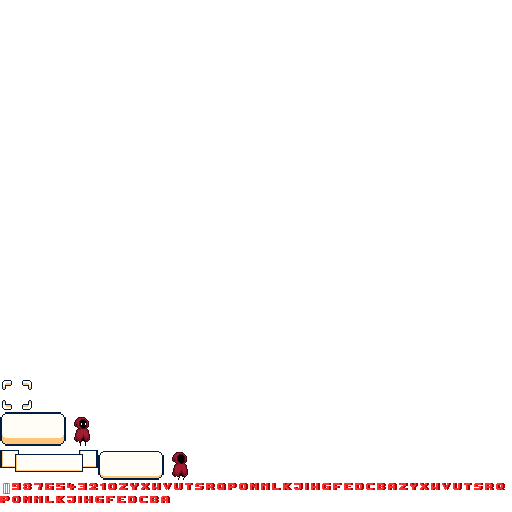
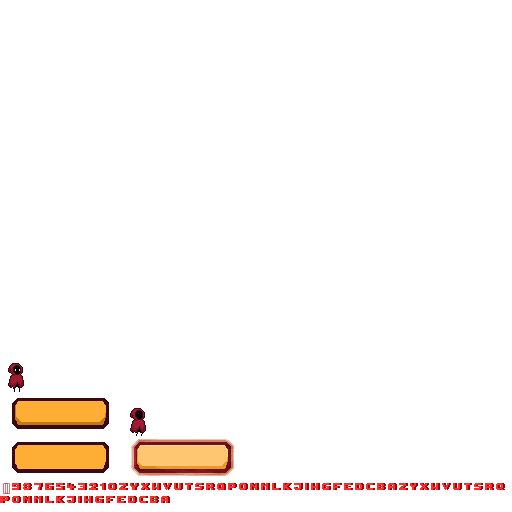
UI UPDATES

Changed region(s): [[0.0, 0.6875, 0.4688, 0.9375]]

diff --git a/core/src/main/java/com/turmoillift2/states/Play.java b/core/src/main/java/com/turmoillift2/states/Play.java
@@ -1,11 +1,19 @@
 package com.turmoillift2.states;
 
 
+import com.badlogic.gdx.Gdx;
 import com.badlogic.gdx.graphics.OrthographicCamera;
 import com.badlogic.gdx.math.Vector2;
 import com.badlogic.gdx.physics.box2d.*;
+import com.badlogic.gdx.scenes.scene2d.Stage;
+import com.badlogic.gdx.scenes.scene2d.ui.Label;
+import com.badlogic.gdx.scenes.scene2d.ui.Skin;
+import com.badlogic.gdx.scenes.scene2d.ui.Table;
+import com.badlogic.gdx.utils.Align;
 import com.badlogic.gdx.utils.Array;
 import com.badlogic.gdx.utils.ScreenUtils;
+import com.github.tommyettinger.textra.KnownFonts;
+import com.github.tommyettinger.textra.TypingLabel;
 import com.turmoillift2.entities.Player;
 import com.turmoillift2.entities.Projectile;
 import com.turmoillift2.entities.enemies.Enemy;
@@ -28,6 +36,11 @@ public class Play extends GameState {
     private final EnemySpawner enemySpawner;
     private final Score score;
 
+    // STAGE FOR HUD SETUP - REFACTOR LATER
+    private final Stage stage;
+    private final Skin skin;
+    private final TypingLabel scoreLabel;
+
     private final int[] firstLayers = {0, 1};
     private final int[] lastLayers = {2};
 
@@ -47,6 +60,22 @@ public class Play extends GameState {
 
         b2DCam = new OrthographicCamera();
         b2DCam.setToOrtho(false, (float) TurmoilLiftoff2.WORLD_WIDTH / PPM, (float) TurmoilLiftoff2.WORLD_HEIGHT / PPM);
+
+
+        //TODO Refactor later, just testing right now
+        skin = new Skin(Gdx.files.internal("ui/test2/uiskin.json"));
+        stage = new Stage(game.getViewport());
+        scoreLabel = new TypingLabel("[@IBM 8x16]SCORE: {SQUASH=2.0;true} " + score.getPoints(), KnownFonts.getIBM8x16());
+        game.getInputMultiplexer().addProcessor(stage);
+        stage.addActor(scoreLabel);
+        game.getInputMultiplexer().addProcessor(stage);
+        Table root = new Table();
+        root.setSkin(skin);
+        root.setFillParent(true);
+        skin.get(Label.LabelStyle.class).font.getData().markupEnabled = true;
+        stage.addActor(root);
+        root.align(Align.top);
+        root.add(scoreLabel).expand().align(Align.top);
 
     }
 
@@ -107,8 +136,6 @@ public class Play extends GameState {
         game.tmr.setView(camera);
         game.tmr.render(firstLayers);
 
-        //render font
-        game.font.draw(spriteBatch, "SCORE: " + score.getPoints(), TurmoilLiftoff2.WORLD_WIDTH - 150, TurmoilLiftoff2.WORLD_HEIGHT - 15);
         spriteBatch.end();
         // end batch draw
 
@@ -129,6 +156,8 @@ public class Play extends GameState {
         game.tmr.render(lastLayers);
         //render debug boxes
         b2drDebug.render(world, b2DCam.combined);
+        stage.act(Math.min(Gdx.graphics.getDeltaTime(), 1 / 144f));
+        stage.draw();
     }
 
     @Override
@@ -165,7 +194,12 @@ public class Play extends GameState {
                 killedEnemies.add(enemy);
                 enemySpawner.freeRow(enemy.getRow());
                 world.destroyBody(enemy.getBody());
-                score.addPoints(enemy.getPointValue());
+                int points = enemy.getPointValue();
+                if (points != 0) {
+                    score.addPoints(enemy.getPointValue());
+                    //TODO  SKIP TO END SCORE PART and use it as normal label maybe
+                    scoreLabel.restart("[@IBM 8x16]SCORE: {SQUASH=2.0;true} " + score.getPoints());
+                }
                 continue;
             }
             enemy.update(dt);

diff --git a/core/src/main/java/com/turmoillift2/states/Init.java b/core/src/main/java/com/turmoillift2/states/Init.java
@@ -23,10 +23,11 @@ public class Init extends GameState {
     private final Stage stage;
     private final Sprite background;
     private final Texture backgroundTexture;
+    private final TypingLabel typingLabel;
 
     public Init(GameStateManager gsm) {
         super(gsm);
-        skin = new Skin(Gdx.files.internal("ui/test/uiskin.json"));
+        skin = new Skin(Gdx.files.internal("ui/test2/uiskin.json"));
         backgroundTexture = new Texture(Gdx.files.internal("background.png"));
         backgroundTexture.setFilter(Texture.TextureFilter.Linear, Texture.TextureFilter.Linear);
         background = new Sprite(backgroundTexture);
@@ -41,7 +42,7 @@ public class Init extends GameState {
         root.setSkin(skin);
         root.setFillParent(true);
         skin.get(Label.LabelStyle.class).font.getData().markupEnabled = true;
-        TypingLabel typingLabel = new TypingLabel("[@IBM 8x16][%200][#f1dd38]{ROTATE=10.0}{EASE=15 .0;3.0;false}{JOLT=1.0;1.0;inf;0.1;#f1dd38;ffff88ff}Wizards Turmoil", KnownFonts.getIBM8x16());
+        typingLabel = new TypingLabel("[@IBM 8x16][%200][#f1dd38]{ROTATE=10.0}{EASE=15 .0;3.0;false}{JOLT=1.0;1.0;inf;0.1;#f1dd38;ffff88ff}Wizards Turmoil", KnownFonts.getIBM8x16());
         TypingLabel instructionLabel1 = new TypingLabel("{FADE=f1b209ff;f1dd38;1.0}Press {JOLT=1.0;1.0;inf;0.45;#f1dd38;ffff88ff}R{ENDJOLT} or click on [#f1dd38]{JOLT=1.0;1.0;inf;0.3;#f1dd38;ffff88ff} START", KnownFonts.getIBM8x16());
         TypingLabel instructionLabel2 = new TypingLabel("{FADE=f1b209ff;ffff88ff;1.0}[#ffff88ff] TO START THE GAME[]", KnownFonts.getIBM8x16());
 

diff --git a/core/src/main/java/com/turmoillift2/entities/enemies/EnemyDino.java b/core/src/main/java/com/turmoillift2/entities/enemies/EnemyDino.java
@@ -38,7 +38,7 @@ public class EnemyDino extends Enemy{
         setStateAnimation();
         body.applyLinearImpulse(impulse, 0, body.getPosition().x, body.getPosition().y, true);
         if (--lives == 0) {
-            kill();
+            isAlive = false;
         }
     }
 
